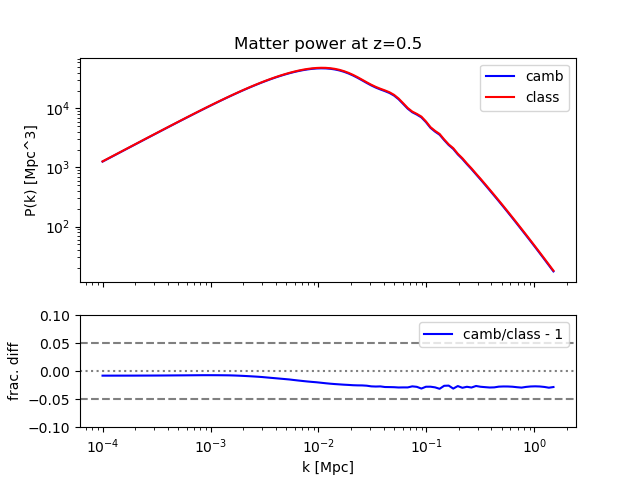
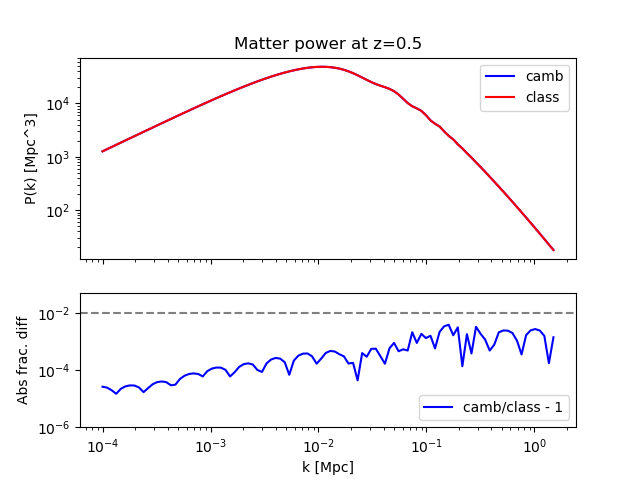
Turn off massive neutrinos in CAMB

diff --git a/camb_vs_class_Pk.py b/camb_vs_class_Pk.py
@@ -52,7 +52,9 @@ cosmo_params = cosmo_dict[cosmology_name]
 Omega_b = 0.046
 Omega_m = cosmo_params[0]
 Omega_cdm = Omega_m - Omega_b
-A_s = np.exp(cosmo_params[1]) / 1e10
+
+ln10e10As = cosmo_params[1]
+A_s = np.exp(ln10e10As) / 1e10
 n_s = 0.965
 
 w0 = cosmo_params[2]
@@ -69,7 +71,10 @@ z_test = cosmo_params[5]
 omega_b = Omega_b*h**2
 omega_cdm = Omega_cdm*h**2
 
-k = np.logspace(-4, np.log10(1.5), num=100) #Mpc^-1
+num_massive_neutrinos = 0
+mnu = 0.0
+
+k = np.logspace(-4, np.log10(1.5), num=100) # Mpc^-1
 
 kmax = 50.0
 
@@ -77,8 +82,8 @@ kmax = 50.0
 #  CAMB
 ########################################
 
-pars = camb.set_params(H0=100*h, ombh2=omega_b, omch2=omega_cdm, As=A_s, ns=n_s, halofit_version='mead', HMCode_A_baryon=c_min, HMCode_eta_baryon=eta_0 )
-pars.set_dark_energy(w=w0, cs2=1.0, wa=0, dark_energy_model='fluid')
+pars = camb.set_params(H0=100*h, ombh2=omega_b, omch2=omega_cdm,  As=A_s, ns=n_s, w=w0, halofit_version='mead', HMCode_A_baryon=c_min, HMCode_eta_baryon=eta_0,
+     num_massive_neutrinos=num_massive_neutrinos, mnu=mnu)
 pars.set_matter_power(redshifts=[z_test], kmax=kmax+50) # manually setting kmax to a larger value for better interpolation
 
 if (lin_or_nl == 'lin' or lin_or_nl == 'linear'):
@@ -102,12 +107,11 @@ commonsettings_nl  = {
     'h':h,
     'omega_b':omega_b,
     'omega_cdm': omega_cdm,
+    #'ln10^{10}A_s':ln10e10As,
     'A_s':A_s,
     'n_s':n_s,
     'Omega_Lambda':0.0,
-    'fluid_equation_of_state':'CLP',
     'w0_fld':w0,
-    'wa_fld':0.0,
     'output':'mPk',
     'P_k_max_1/Mpc':kmax,
     'z_max_pk':z_test + 0.5, # manually setting this to larger than the desired redshift for better interpolation
@@ -131,7 +135,7 @@ elif (lin_or_nl == 'nl'):
 #  Plots
 ########################################
 
-fig, axes = plt.subplots(2, 1, gridspec_kw={'height_ratios': [2, 1]}, sharex=True)
+fig, axes = plt.subplots(2, 1, gridspec_kw={'height_ratios': [3, 2]}, sharex=True)
 
 ax = axes[0]
 ax.plot(k, P_camb, color='b', label='camb')
@@ -143,14 +147,13 @@ ax.set_title('Matter power at z=%s'%(z_test));
 ax.legend()
 
 ax = axes[1]
-ax.plot(k, P_camb/P_class - 1, color='b', label='camb/class - 1')
-ax.axhline(0.05, c='grey', ls='dashed')
-ax.axhline(0.0, c='grey', ls='dotted')
-ax.axhline(-0.05, c='grey', ls='dashed')
+ax.plot(k, np.abs((P_camb/P_class - 1)), color='b', label='camb/class - 1')
+ax.axhline(0.01, c='grey', ls='dashed')
 ax.set_xlabel('k [Mpc]')
-ax.set_ylabel('frac. diff')
+ax.set_ylabel('Abs frac. diff')
 ax.set_xscale('log')
-ax.set_ylim([-0.1,0.1])
-ax.legend()
+ax.set_yscale('log')
+ax.set_ylim([1e-6,5e-2])
+ax.legend(loc='lower right')
 
 plt.savefig('./plots/'+cosmology_name+'_'+lin_or_nl+'.png')

diff --git a/README.md b/README.md
@@ -11,4 +11,6 @@ CLASS: https://github.com/lesgourg/class_public/tree/master
 
 **camb_vs_class_Pk.py** compares the power spectrum (linear or nonlinear)  computed by the two codes (check description at the top of the file to see how to use it).
 
-*Status*: currently observing a large discrepancy (upto 5%) between CAMB and CLASS P(k) already at the linear level --> possible issues with the code which need to be fixed! 
+*Status*: CAMB and CLASS matter power spectra agree to within a sub-percent level. 
+
+Important note: CAMB by default has one massive neutrino species whereas CLASS sets that to zero. Therefore, need to explicitly turn off massive neutrinos in CAMB parameter settings for a fair comparison to CLASS.
